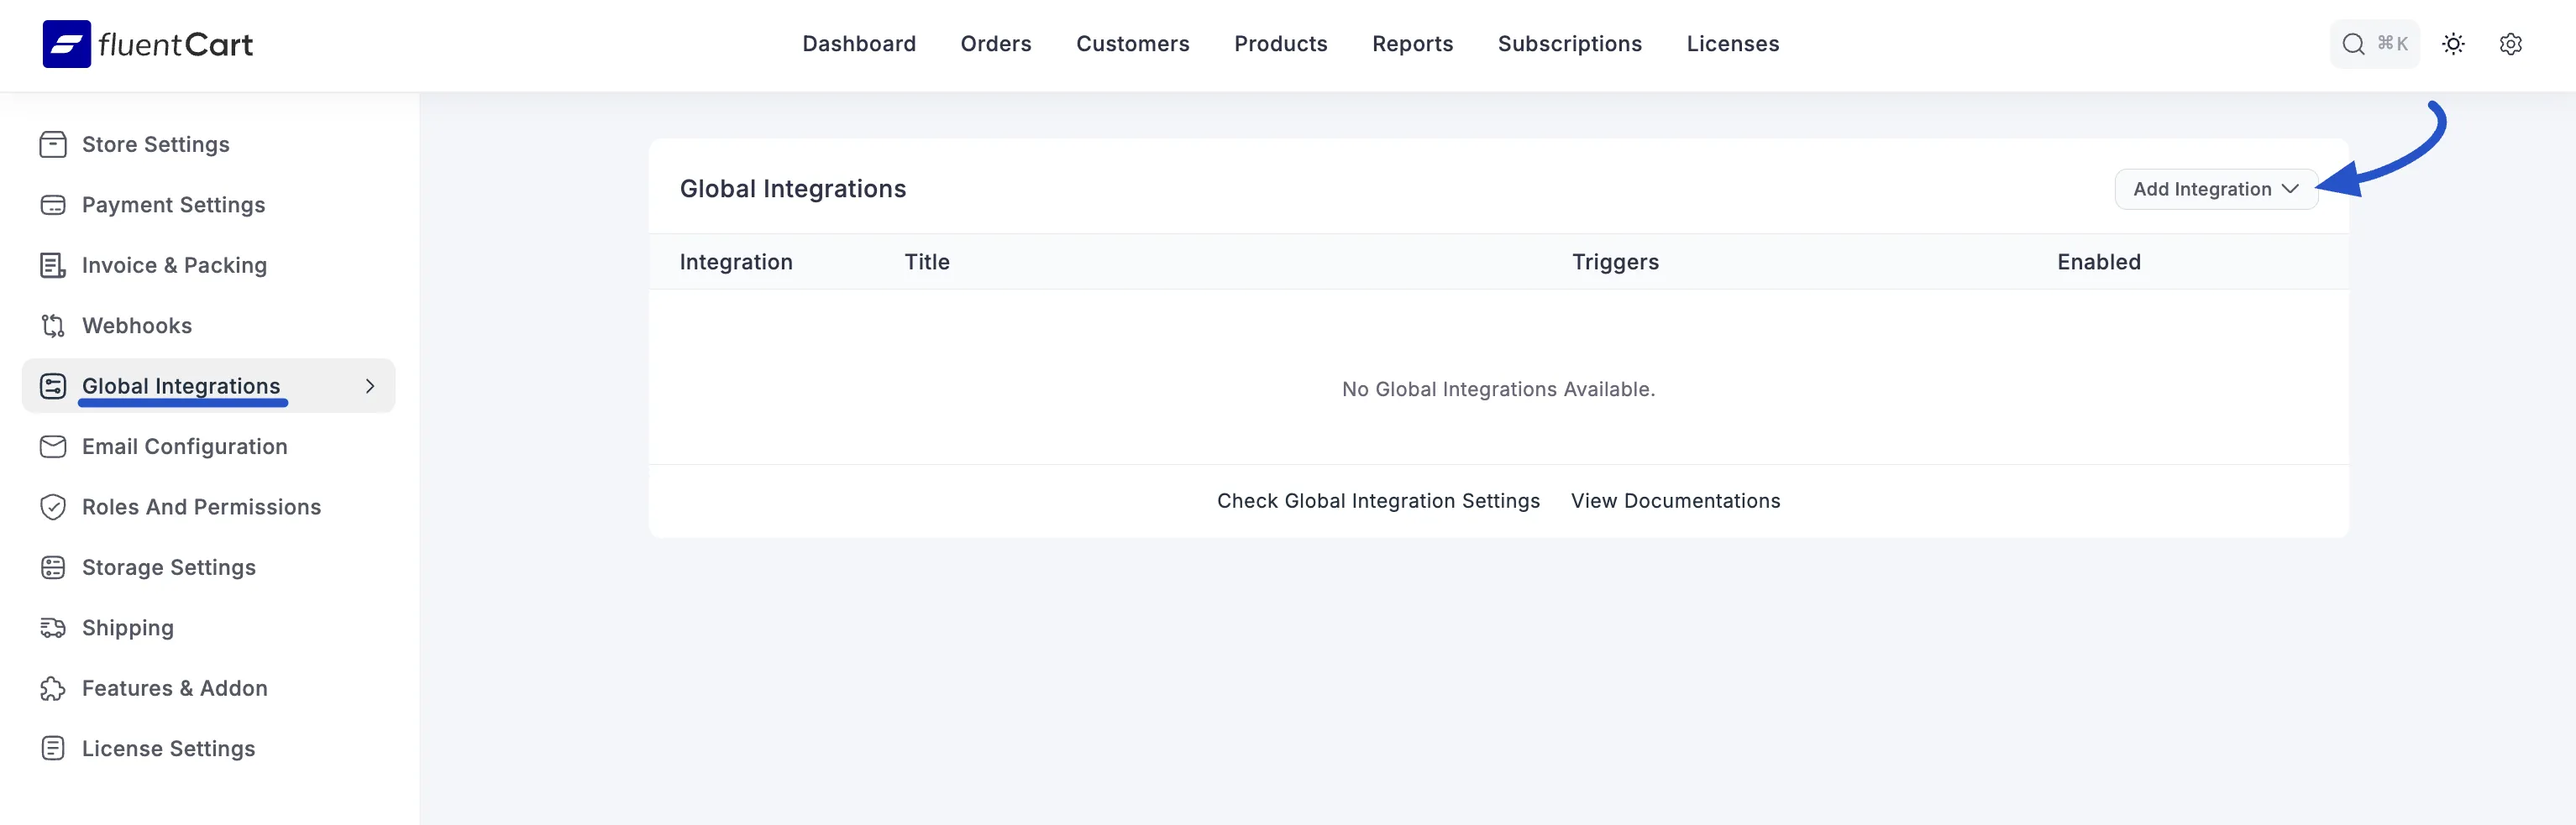
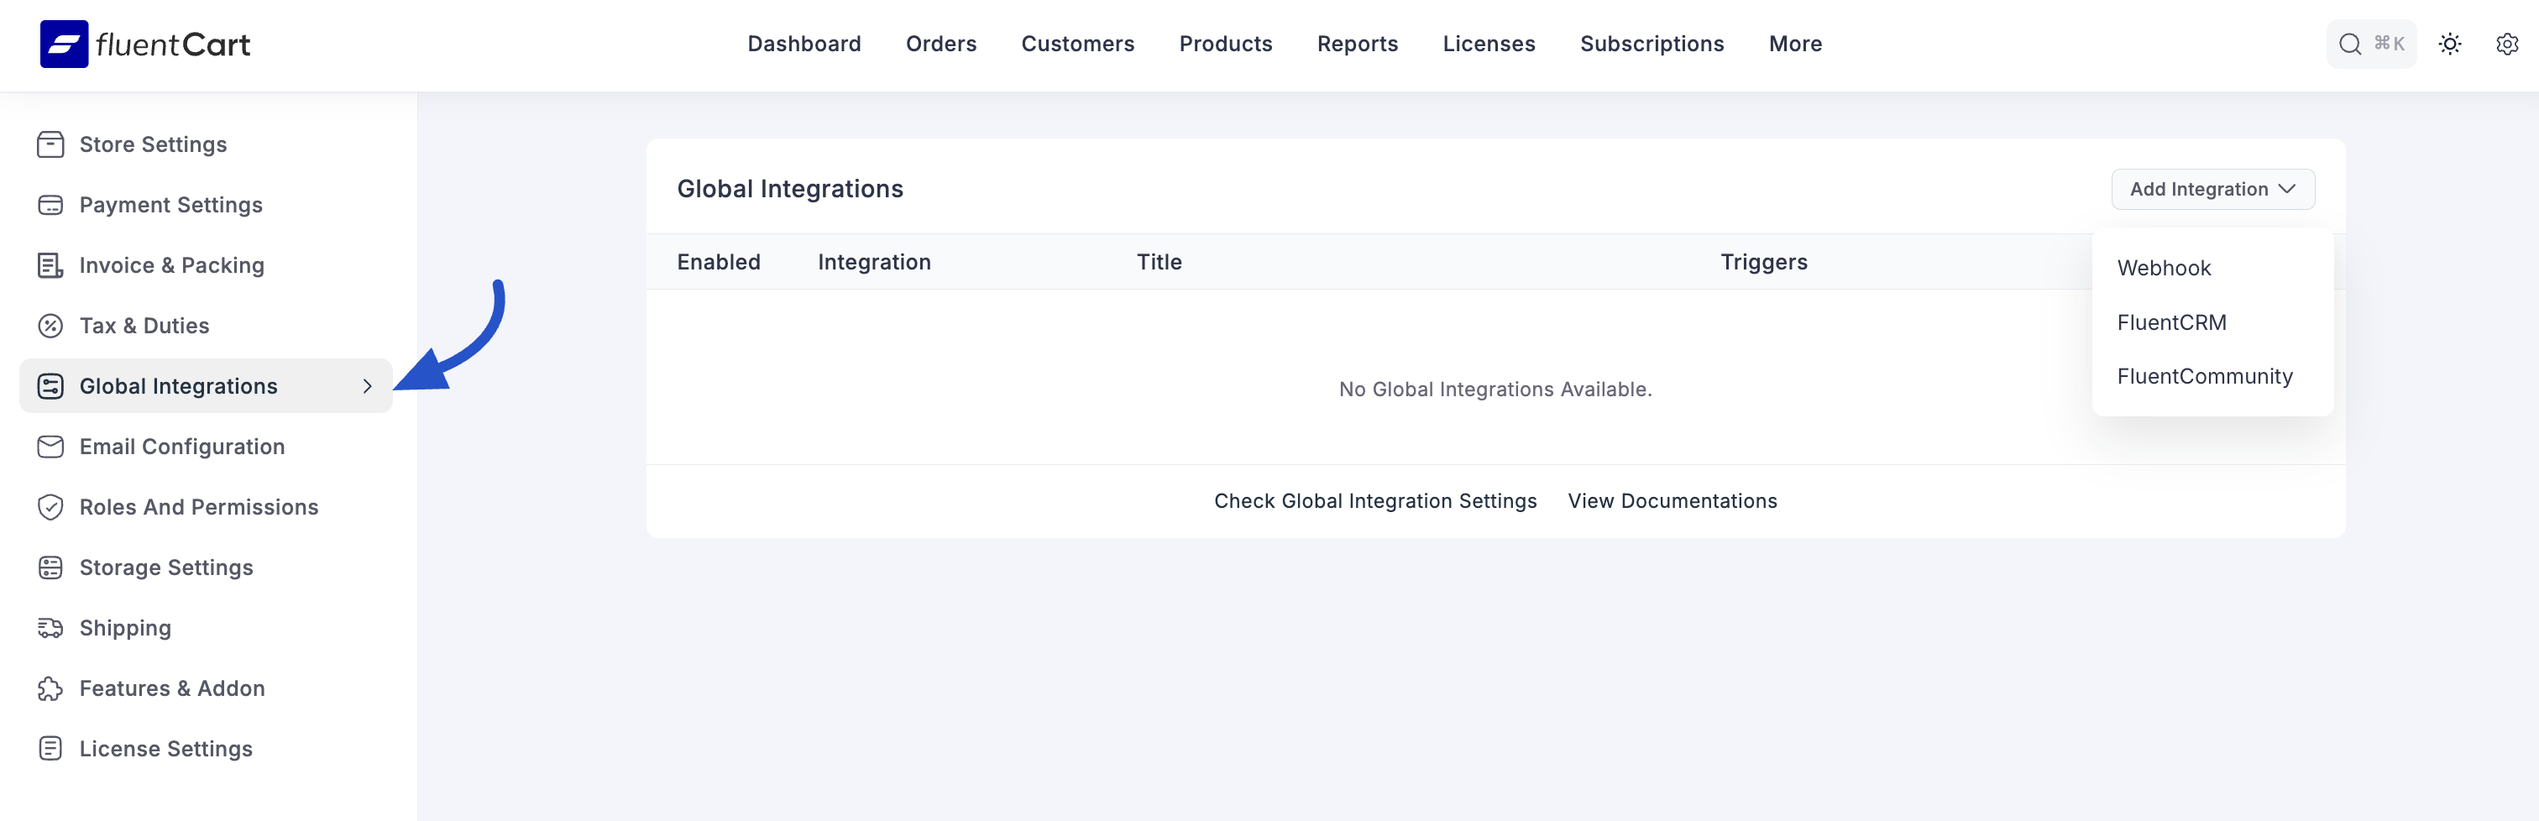
Update

diff --git a/guide/settings-configuration/global-integrations.md b/guide/settings-configuration/global-integrations.md
@@ -1,10 +1,10 @@
 # Managing Global Integrations
 
-The **Global Integrations** section (formerly known as Checkout Actions) is your central dashboard for managing powerful, event-driven automations that connect your FluentCart store to other essential services. These automations, often called "feeds," are triggered by specific events in your store, such as a new order being created or a subscription being renewed.
+The **Global Integrations** section is your central dashboard for managing powerful, event-driven automations that connect your FluentCart store to other essential services. These automations, often called "feeds," are triggered by specific events in your store, such as a new order being created or a subscription being renewed.
 
-By setting up these integrations, you can eliminate manual data entry and seamlessly send real-time information to your marketing platforms, CRMs, and other external tools. This allows you to build sophisticated, automated workflows that enhance your marketing efforts and streamline your business operations. This guide will walk you through how to manage these integrations.
+By setting up these integrations, you can eliminate manual data entry and send real-time information to your marketing platforms, CRMs, and other external tools. This allows you to build sophisticated, automated workflows that enhance your marketing efforts and streamline your business operations. This guide will walk you through how to manage these integrations.
 
-#### Accessing Global Integrations
+## Accessing Global Integrations
 
 1.  From your WordPress dashboard, navigate to **FluentCart Pro > Settings**.
 2.  Click on the **Global Integrations** tab.
@@ -12,7 +12,7 @@ By setting up these integrations, you can eliminate manual data entry and seamle
     ![Screenshot of Checkout Actions Tab](/images/settings-configuration/checkout/checkout-actions-tab.webp)
 
 
-#### The Global Integrations Dashboard
+### The Global Integrations Dashboard
 
 This screen provides a comprehensive overview of all the integration feeds you have configured, serving as your command center for all connected services.
 
@@ -33,6 +33,6 @@ This screen provides a comprehensive overview of all the integration feeds you h
 To create a new automation, you can add a new integration feed. This is the starting point for connecting your store to a new service.
 
 1.  From the Global Integrations dashboard, click the **Add Integration** button at the top right.
-2.  A dropdown menu will appear, listing all the available integrations you can configure [FluentCRM](/guide/integrations/fluentcrm-integration.md). These are the services that FluentCart is ready to connect with.
+2.  A dropdown menu will appear, listing all the available integrations, here you can configure [Webhook](/guide/integrations/webhook-integration.md), [FluentCRM](/guide/integrations/fluentcrm-integration.md) and [FluentCommunity](/guide/integrations/fluentcommunity-integration.md). 
 3.  Select the integration you wish to add from the list.
 4.  You will be taken to the dedicated configuration screen for that specific integration. Here, you will set up the specific rules for the automation, such as defining the triggers, mapping data fields, and configuring any service-specific options.
